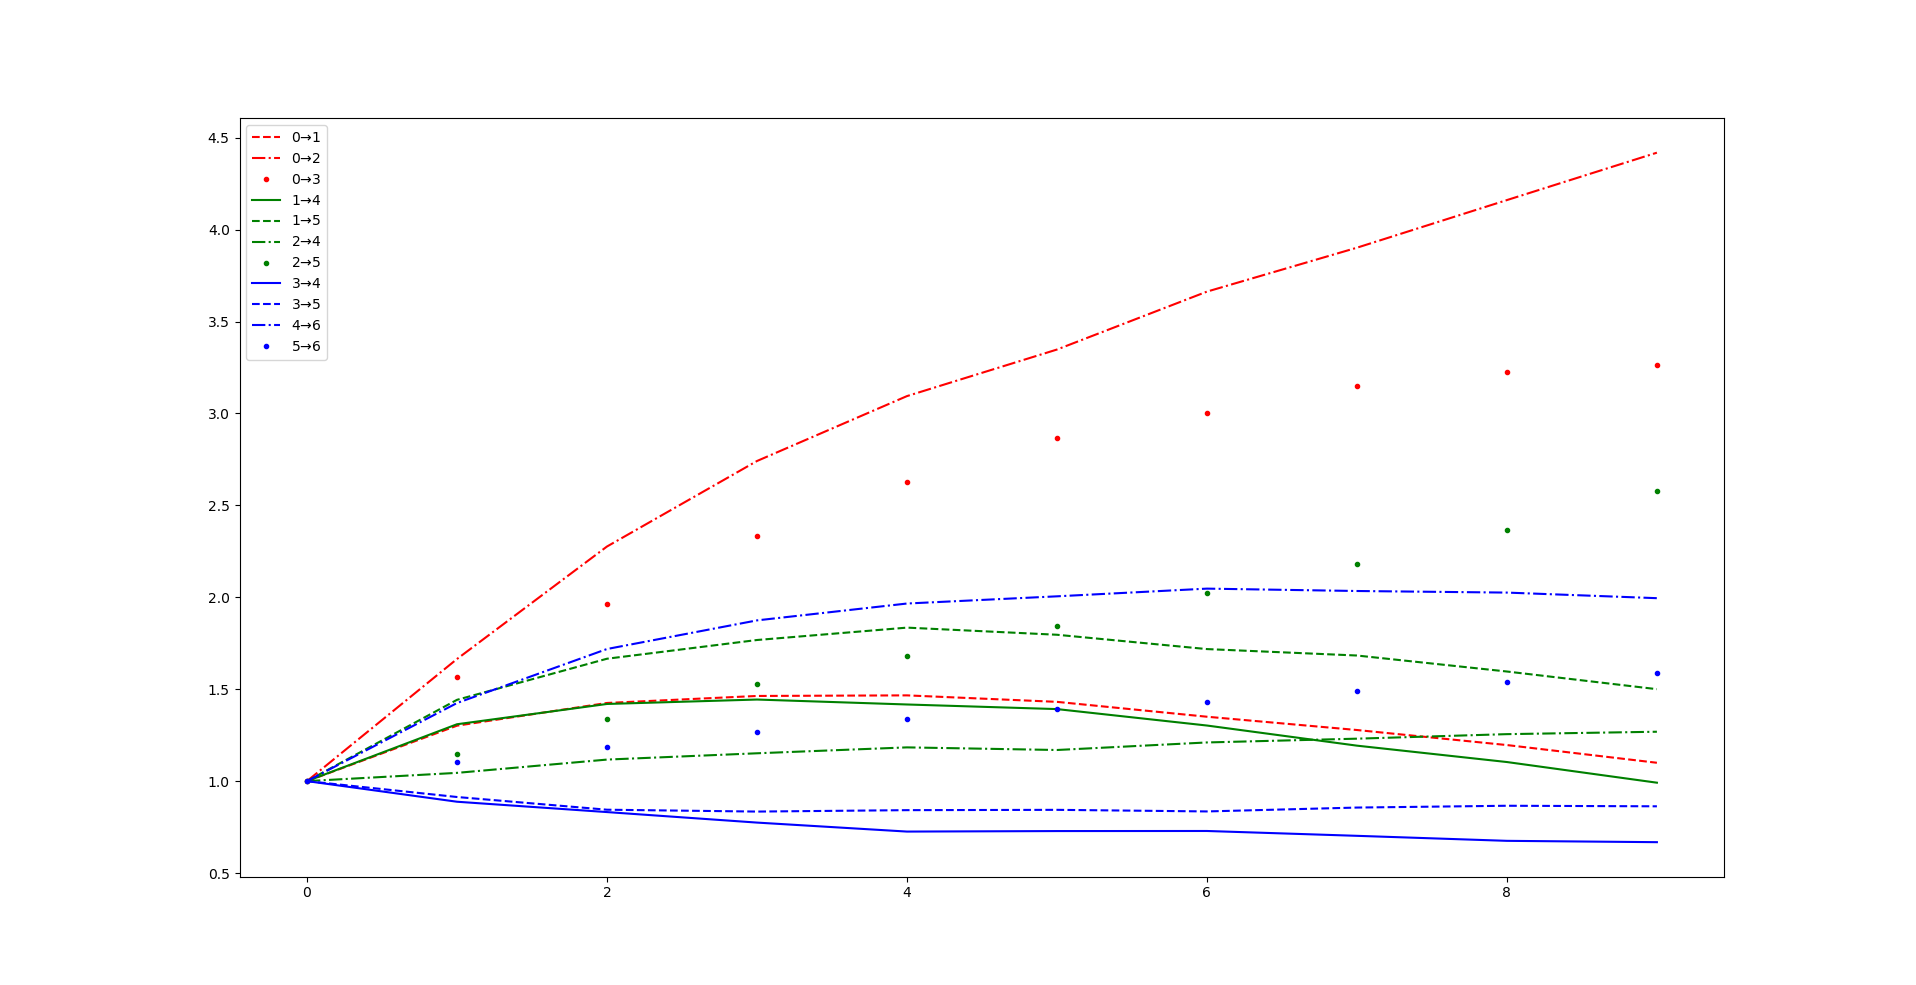
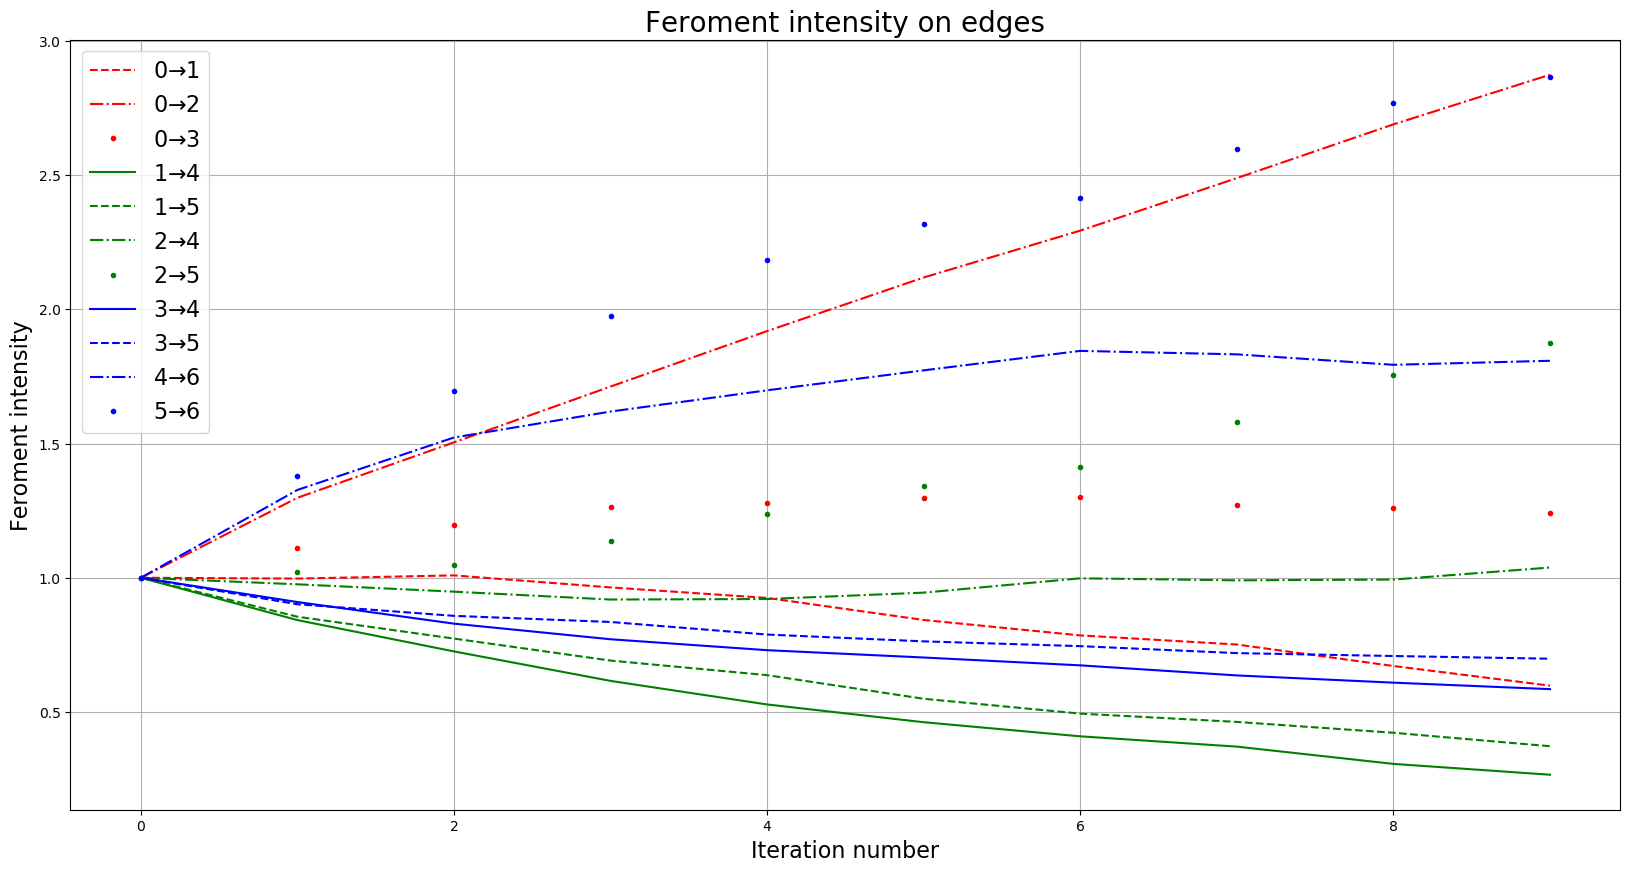
traveling salesman feroment intensity instead of quantity

diff --git a/ant/traveling-salesman/main.py b/ant/traveling-salesman/main.py
@@ -51,12 +51,12 @@ class Ant:
 			for f, t in self.path:
 				# print(f, t, g[f][t])
 				# input()
-				g[f][t].delta += .05 * g[f][t].length / self.path_length**2
+				g[f][t].delta += .1 * g[f][t].length / self.path_length**2
 
 
 class Edge:
 	def __init__(self, length):
-		self.length, self.feroment, self.delta = length, 1, 0
+		self.length, self.feroment, self.delta = length, length, 0
 
 	def __repr__(self):
 		return f'Edge(length={self.length}, feroment={self.feroment}, delta={self.delta})'
@@ -85,7 +85,7 @@ if __name__ == '__main__':
 
 	n, m = 1000, 1000
 
-	h = [{f: {t: g[f][t].feroment for t in g[f]} for f in g}]
+	h = [{f: {t: g[f][t].feroment / g[f][t].length for t in g[f]} for f in g}]
 
 	for i in range(m):
 		print(f'{i:0>3}')
@@ -101,7 +101,7 @@ if __name__ == '__main__':
 				g[f][t].feroment, g[f][t].delta = \
 					.7 * g[f][t].feroment + g[f][t].delta, 0
 
-		h.append({f: {t: g[f][t].feroment for t in g[f]} for f in g})
+		h.append({f: {t: g[f][t].feroment / g[f][t].length for t in g[f]} for f in g})
 
 	k = 0
 	style = [
@@ -120,6 +120,9 @@ if __name__ == '__main__':
 	]
 
 	plt.figure(figsize=(20,10))
+	plt.title('Feroment intensity on edges', fontsize=20)
+	plt.xlabel('Iteration number', fontsize=16)
+	plt.ylabel('Feroment intensity', fontsize=16)
 	for f in g:
 		for t in g[f]:
 			k += 1
@@ -127,7 +130,9 @@ if __name__ == '__main__':
 				list(range(m)), 
 				[h[i][f][t] for i in range(m)], 
 				f"{style[k]['c']}{style[k]['d']}",
-				label=f'{f}$\\to${t}'
+				label=f'${f} \\to {t}$'
 			)
-	plt.legend()
-	plt.show()
+	plt.legend(fontsize=16)
+	plt.grid(True)
+	# plt.show()
+	plt.savefig(f'feroment_{m}.png', bbox_inches='tight')
